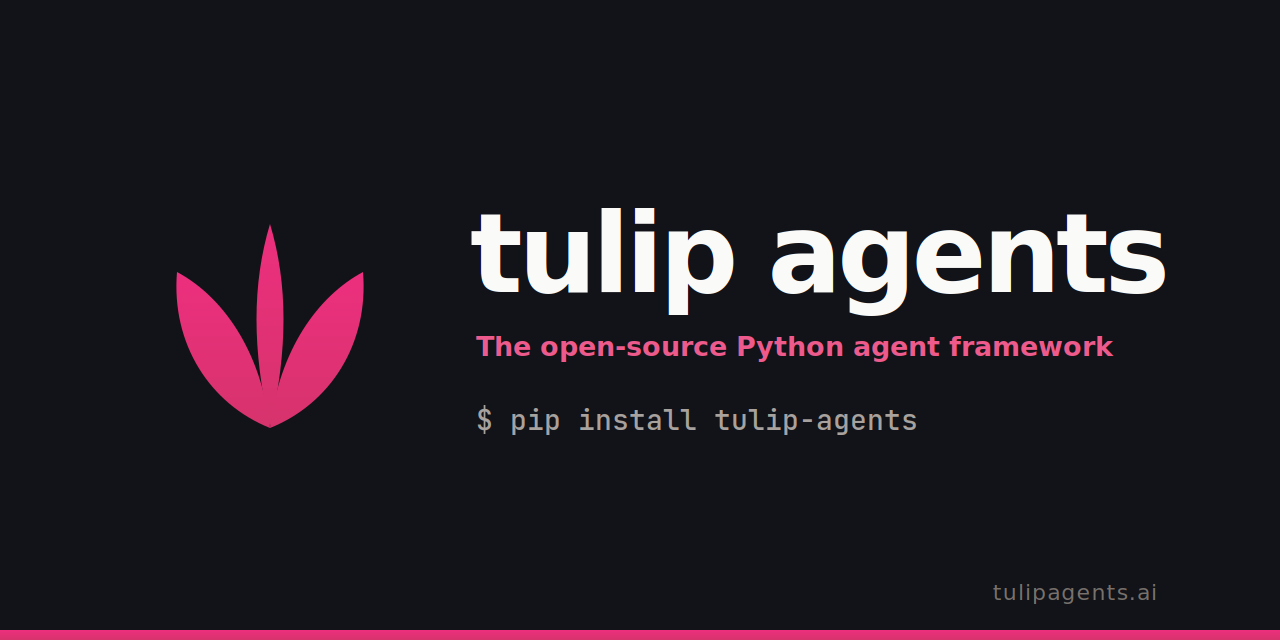
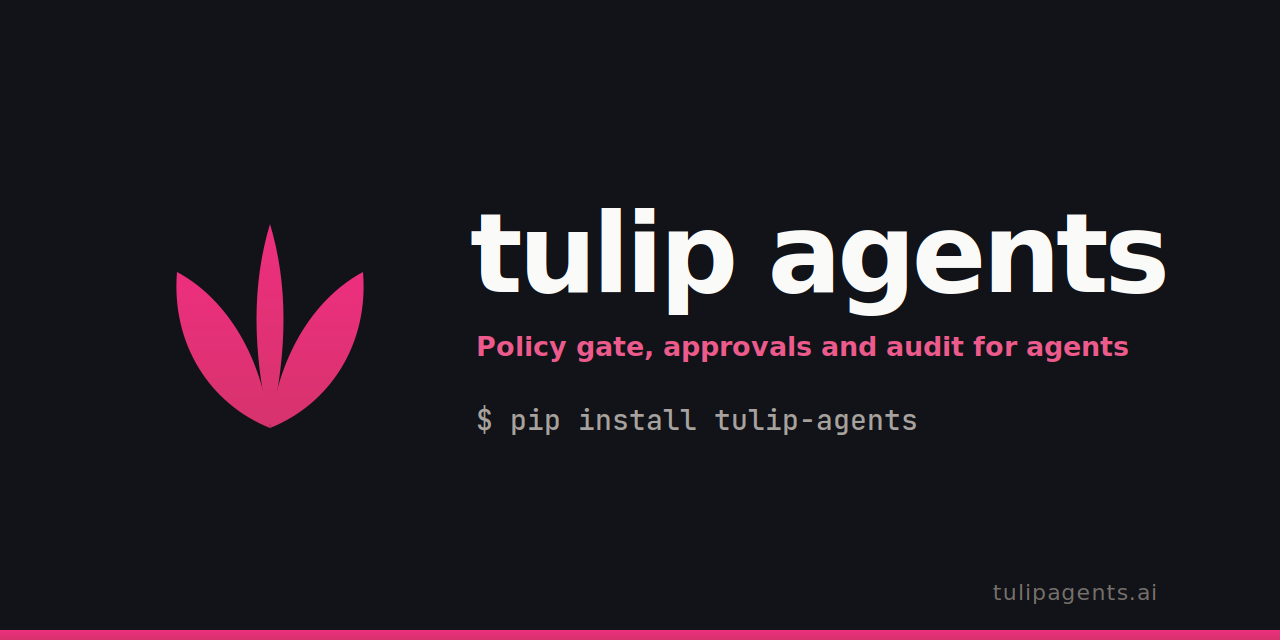
Lead with the gate, and say plainly what the licence history is
Home, tab title, site description, social card and README now lead with
what the runtime does to an agent's actions: a policy gate, approvals
and an audit trail. The framework features follow.

Legal replaces the "welcome to use at production grade, at no cost"
line with the licence statement. About and Legal state that releases
before 1.0.0 were UPL-1.0 and the project relicensed to Apache-2.0 at
1.0.0, point at LICENSES/, and say what "Tulip Labs" names.

Responsible use now says offensive-capable tooling ships in the separate
tulip-agents-security package, not in the core.

Changed region(s): [[0.375, 0.5, 0.9062, 0.5625]]

diff --git a/overrides/main.html b/overrides/main.html
@@ -11,7 +11,7 @@
   og:title / twitter:title in extrahead below; on the homepage both
   use tab_title, so the tab and the unfurl carry one spelling.
 #}
-{% set tab_title = "tulip agents — the open-source Python agent framework" %}
+{% set tab_title = "tulip agents — a policy gate, approvals and audit for Python agents" %}
 {% block htmltitle %}
   {% set seo_title = page.meta.title if page and page.meta and page.meta.title else (page.title | striptags if page and page.title else none) %}
   {% set section = page.url.split('/')[0] if page and page.url and '/' in page.url.rstrip('/') else '' %}

diff --git a/docs/legal.md b/docs/legal.md
@@ -2,14 +2,12 @@
 
 ## About &amp; disclaimer
 
-**Tulip is maintained independently by The Tulip Authors.** The current
-maintainers develop the project in the open and do not claim endorsement by
-model providers or integration vendors. Tulip began as a fork, so its history
-also includes inherited code described under [Provenance](#provenance); the
-independence statement applies to present maintenance, not authorship of every
-historical line.
+**Tulip is maintained independently by The Tulip Authors.** The maintainers
+develop the project in the open and do not claim endorsement by model providers
+or integration vendors. Its licensing history is described under
+[Provenance](#provenance).
 
-**Organizations and corporations are welcome to use the open-source tulip SDK at production grade, at no cost**, under the Apache License, Version 2.0.
+Released under the Apache License, Version 2.0.
 
 ### Disclaimer of warranty and liability
 
@@ -17,7 +15,7 @@ The software is provided **"AS IS", without warranty of any kind**, express or i
 
 ### Responsible use
 
-tulip ships offensive-capable security tooling — red-team agents, model and hardware fingerprinting, and similar reconnaissance capabilities. **Use it only against systems you own or are explicitly authorized to test.** Running these capabilities against systems you do not own or have not been authorized to assess may be unlawful.
+The core `tulip-agents` package does not include offensive-capable tooling. The separate, opt-in `tulip-agents-security` package does — red-team agents, model and hardware fingerprinting, and similar reconnaissance capabilities. **Use it only against systems you own or are explicitly authorized to test.** Running these capabilities against systems you do not own or have not been authorized to assess may be unlawful.
 
 *This page is not legal advice. Consult your own counsel.*
 
@@ -33,9 +31,9 @@ Unless required by applicable law or agreed to in writing, software distributed 
 
 ### Provenance
 
-Tulip began as a fork of an earlier project released under the **Universal Permissive License v1.0 (UPL-1.0)**. Those original portions remain available under the UPL-1.0; all new contributions are licensed under the Apache License, Version 2.0. See the [`NOTICE`](https://github.com/tuliplabs-ai/tulip-agents/blob/main/NOTICE) file for attribution details.
+Releases of Tulip before 1.0.0 were published under the **Universal Permissive License v1.0 (UPL-1.0)**. The project was relicensed to the Apache License, Version 2.0 at 1.0.0. Code as it stood in those releases remains available under the UPL-1.0; all changes and additions since 1.0.0 are licensed under the Apache License, Version 2.0. The [`NOTICE`](https://github.com/tuliplabs-ai/tulip-agents/blob/main/NOTICE) file and the [`LICENSES/`](https://github.com/tuliplabs-ai/tulip-agents/tree/main/LICENSES) directory list both license texts and the files that date from the UPL-1.0 releases.
 
-Full text: [LICENSE](https://github.com/tuliplabs-ai/tulip-agents/blob/main/LICENSE) · [NOTICE](https://github.com/tuliplabs-ai/tulip-agents/blob/main/NOTICE)
+Full text: [LICENSE](https://github.com/tuliplabs-ai/tulip-agents/blob/main/LICENSE) · [NOTICE](https://github.com/tuliplabs-ai/tulip-agents/blob/main/NOTICE) · [LICENSES/](https://github.com/tuliplabs-ai/tulip-agents/tree/main/LICENSES)
 
 ---
 

diff --git a/docs/index.md b/docs/index.md
@@ -2,22 +2,23 @@
 hide:
   - navigation
   - toc
-title: tulip agents — the open-source Python agent framework
-description: Build Python agents with typed tools, memory, RAG, streaming, and eight multi-agent shapes behind one Agent class — and put a policy gate in front of the actions that change real systems.
+title: tulip agents — a policy gate, approvals and audit for Python agents
+description: Every consequential action an agent takes clears a policy you write, waits for a named person when it matters, and lands on an audit trail you can verify. Build on it, or put it around the agent you already have.
 ---
 
 <div class="tulip-hero" markdown>
 <div class="tulip-hero__motif" aria-hidden="true"></div>
 <div class="tulip-hero__copy" markdown>
 
-<p class="tulip-product-name"><span class="tpn-brand">tulip agents</span><span class="tpn-sep"> · </span><span class="tpn-tag">open-source Python agent framework</span></p>
+<p class="tulip-product-name"><span class="tpn-brand">tulip agents</span><span class="tpn-sep"> · </span><span class="tpn-tag">policy gate, approvals and audit for Python agents</span></p>
 
-# Build agents that <span class="accent">do real work.</span>
+# The model never <span class="accent">holds the trigger.</span>
 
-Typed tools, memory, RAG, streaming, and eight multi-agent shapes behind one
-`Agent` class, on any OpenAI-compatible provider. And when an agent needs to
-change a real system, the same runtime puts a policy gate in front of the
-side effect.
+Every consequential action clears a policy you write — real code, outside the
+model, before the side effect. When it matters it waits for a named person, and
+every decision lands on an audit trail you can verify. Build on the full
+runtime (typed tools, memory, RAG, streaming, multi-agent) on any
+OpenAI-compatible provider, or put the gate around the agent you already have.
 
 <div class="tulip-hero__cta" markdown>
 [Get started](how-to/quickstart.md){ .md-button .md-button--primary }

diff --git a/docs/about.md b/docs/about.md
@@ -13,11 +13,17 @@ from model or integration vendors.
 
 ## Project history
 
-Tulip began as a fork of an earlier UPL-1.0 project. The inherited portions
-remain under that license; subsequent Tulip contributions are Apache-2.0. The
-repository [`NOTICE`](https://github.com/tuliplabs-ai/tulip-agents/blob/main/NOTICE)
-records attribution. “Maintained independently” describes the current project;
-it does not mean every historical line originated with the current maintainers.
+Tulip's releases before 1.0.0 were published under the Universal Permissive
+License v1.0 (UPL-1.0). The project relicensed itself to Apache-2.0 at 1.0.0;
+code as it stood in those releases remains available under the UPL-1.0, and
+everything since is Apache-2.0. The repository's
+[`NOTICE`](https://github.com/tuliplabs-ai/tulip-agents/blob/main/NOTICE) and
+[`LICENSES/`](https://github.com/tuliplabs-ai/tulip-agents/tree/main/LICENSES)
+record which files date from the UPL-1.0 releases.
+
+“Tulip Labs” is the name of the GitHub organization,
+[`tuliplabs-ai`](https://github.com/tuliplabs-ai), that the project is
+published under.
 
 ## Assessing maintenance
 

diff --git a/README.md b/README.md
@@ -2,7 +2,7 @@
 
 The source for **[tulipagents.ai](https://tulipagents.ai/)** — the
 documentation site for [Tulip](https://github.com/tuliplabs-ai/tulip-agents),
-the open-source Python agent framework.
+the open-source Python runtime that puts a policy gate, approvals and an audit trail in front of what an agent does.
 Everything you'd expect — tools, memory, multi-agent, RAG, streaming —
 behind one `Agent` class, with control wired through the core: the cognitive
 router (PRISM) picks which shape runs, optional GSAR evaluates typed claim
